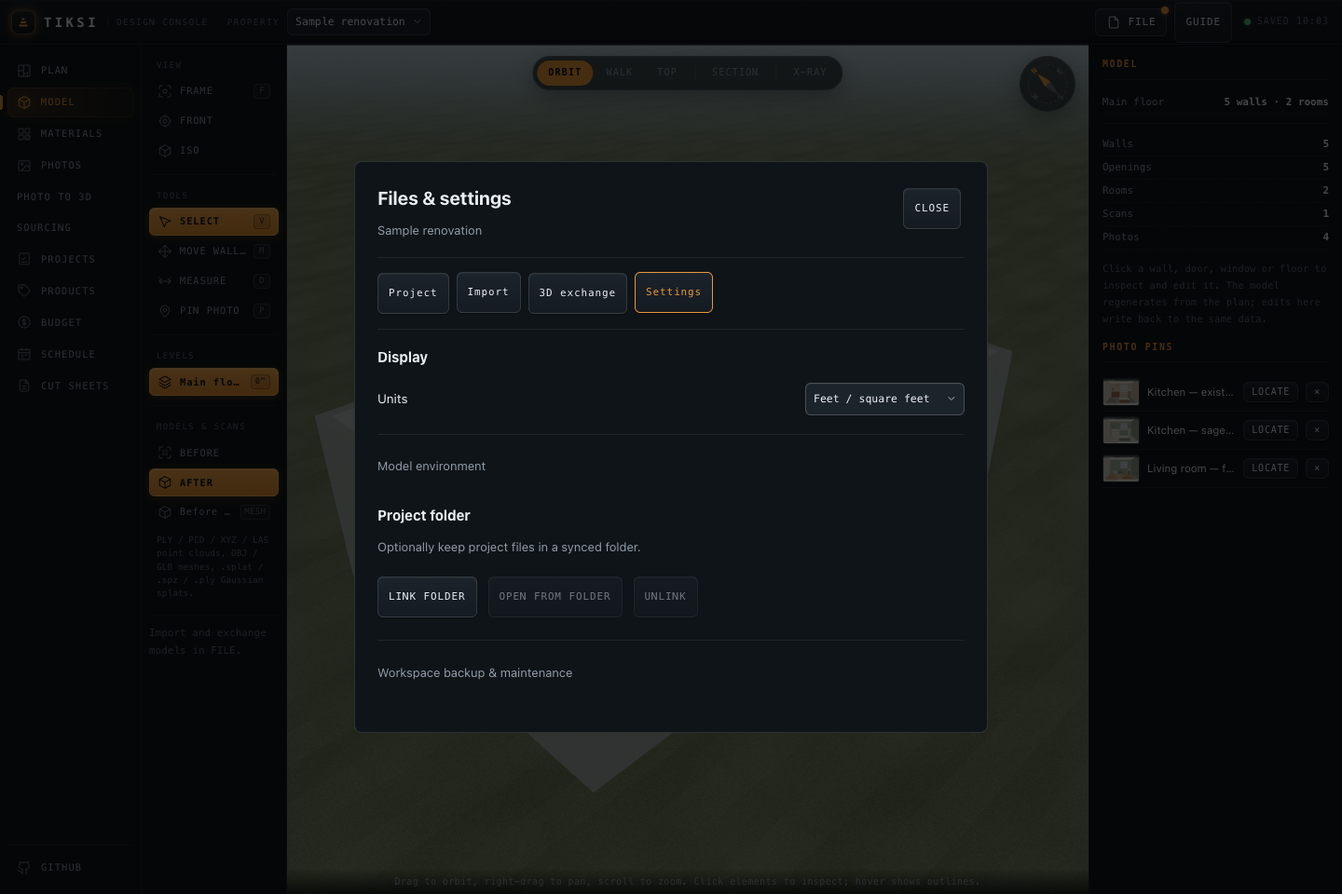
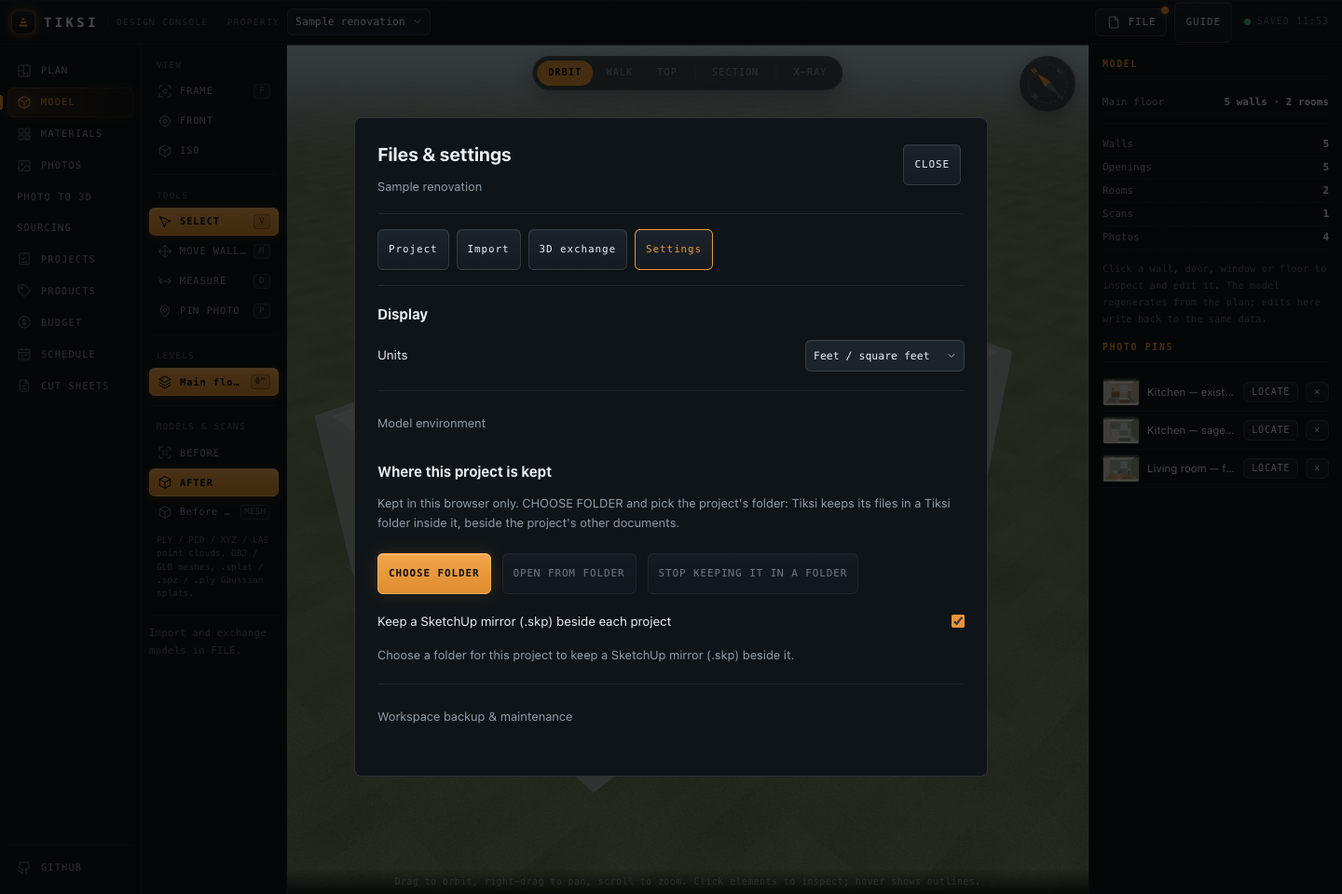
One place for where a project is kept, and say what open and link did
FILE > Settings showed two folder sections side by side, the shared project
folder and the project's own folder, and both buttons reported "Done." even
when the folder picker was cancelled. Opening a project gave no sign either,
even when the same file was opened again.

- Where this project is kept: one section with CHOOSE FOLDER, OPEN FROM FOLDER
  and STOP KEEPING IT IN A FOLDER. Picking the project's folder keeps Tiksi's
  files in a Tiksi folder inside it (made when missing), so the project's own
  documents stay beside them. A folder named Tiksi, or one that already holds
  the project's .tiksi, is used as it is. The label reads, for example,
  "Kept in 68 Chatsworth > Tiksi", and the link finds that folder again after
  a reload.
- The shared folder moves under Workspace backup & maintenance as "Projects
  without their own folder".
- Linking, reconnecting and unlinking say what happened, and a cancelled pick
  says "No folder chosen; nothing changed."
- Every open (FILE, drop, OPEN FROM FOLDER, Cmd+O) shows a toast with what was
  opened and whether it replaced this browser's copy.

diff --git a/js/main.js b/js/main.js
@@ -64,7 +64,7 @@ async function boot() {
   refreshTopbar();
   onChange(refreshTopbar);
   // Projects are files: SAVE, the FILE menu, drops, Cmd+S/Cmd+O, and the linked folder.
-  initFiles({ remount: remountView, refresh: refreshTopbar, afterReplace: afterWorkspaceReplaced });
+  initFiles({ remount: remountView, refresh: refreshTopbar, afterReplace: afterWorkspaceReplaced, opened: confirmOpened });
   bindFileIntake(importAnyFile);
   onChange(() => { scheduleFolderSync(); refreshSaveButton(); });
   onFilesChange(refreshSaveButton);
@@ -242,10 +242,9 @@ function openFileMenu(initialTab = 'project', selected) {
       <button class="btn" data-new-property>NEW PROPERTY</button></section>
     <section data-file-panel="capture" hidden><h3>Bring your room into Tiksi</h3><p>Choose photos, a scan, a 3D model or a saved project. Imported projects add or update properties here.</p><button class="btn primary" data-capture-open>CHOOSE FILES…</button><button class="btn" data-polycam>POLYCAM LINK</button><button class="btn" data-photo3d>PHOTOS → 3D</button></section>
     <section data-file-panel="exchange" hidden data-file-exchange></section>
-    <section data-file-panel="settings" hidden><h3>Display</h3><label>Units <select data-file-units><option value="imperial">Feet / square feet</option><option value="metric">Metres / square metres</option></select></label><details><summary>Model environment</summary><div data-file-env></div></details><h3>Project folder</h3><p data-folder-label></p><div class="file-actions"><button class="btn" data-folder-link>LINK FOLDER</button><button class="btn" data-folder-open>OPEN FROM FOLDER</button><button class="btn" data-folder-unlink>UNLINK</button></div>
-      <h3>This project's folder</h3><p data-own-folder-label></p><div class="file-actions"><button class="btn" data-own-folder-link>LINK THIS PROJECT'S FOLDER</button><button class="btn" data-own-folder-unlink>USE THE SHARED FOLDER</button></div>
+    <section data-file-panel="settings" hidden><h3>Display</h3><label>Units <select data-file-units><option value="imperial">Feet / square feet</option><option value="metric">Metres / square metres</option></select></label><details><summary>Model environment</summary><div data-file-env></div></details><h3>Where this project is kept</h3><p data-own-folder-label></p><div class="file-actions"><button class="btn primary" data-own-folder-link>CHOOSE FOLDER</button><button class="btn" data-folder-open>OPEN FROM FOLDER</button><button class="btn" data-own-folder-unlink>STOP KEEPING IT IN A FOLDER</button></div>
       <label>Keep a SketchUp mirror (.skp) beside each project <input type="checkbox" data-mirror-on></label><p data-mirror-label></p>
-      <details><summary>Workspace backup & maintenance</summary><p>Project saves are usually enough. A workspace backup carries every property.</p><button class="btn" data-workspace-save>SAVE WORKSPACE BACKUP</button><button class="btn" data-demo>ADD DEMO PROJECTS</button><button class="btn" data-storage>CLEAN UNUSED STORAGE</button><p>Replace workspace is available only when you intentionally want to restore a full backup.</p><button class="btn" data-workspace-replace>REPLACE FROM BACKUP…</button></details></section>
+      <details><summary>Workspace backup & maintenance</summary><h3>Projects without their own folder</h3><p data-folder-label></p><div class="file-actions"><button class="btn" data-folder-link>KEEP THEM IN ONE FOLDER</button><button class="btn" data-folder-unlink>UNLINK</button></div><p>Project saves are usually enough. A workspace backup carries every property.</p><button class="btn" data-workspace-save>SAVE WORKSPACE BACKUP</button><button class="btn" data-demo>ADD DEMO PROJECTS</button><button class="btn" data-storage>CLEAN UNUSED STORAGE</button><p>Replace workspace is available only when you intentionally want to restore a full backup.</p><button class="btn" data-workspace-replace>REPLACE FROM BACKUP…</button></details></section>
     <p role="status" data-file-status></p><input type="file" data-any-file hidden multiple accept=".tiksi,.json,${SCAN_ACCEPT},.c4d,.max,.ma,.mb,.rfa,.dwf,.mtl,.bin,.tga,.jpg,.jpeg,.png,.webp,.heic,.heif,.tif,.tiff,.avif"><input type="file" data-replace-file hidden accept=".json,.zip,.tiksi">`;
   document.body.append(dialog);dialog.showModal();dialog.addEventListener('close',()=>dialog.remove());
   const envHost=dialog.querySelector('[data-file-env]');
@@ -255,17 +254,21 @@ function openFileMenu(initialTab = 'project', selected) {
   const refresh=()=>{
     const st=filesState(),target=prop && saveTarget(prop.id);
     dialog.querySelector('[data-file-target]').textContent=target?'Saving to '+target.name:'Choose a file on first save. Cmd+S saves again; Cmd+O opens a project.';
-    dialog.querySelector('[data-folder-label]').textContent=st.folderName || 'Optionally keep project files in a synced folder.';
     const own=prop&&projectFolder(prop.id);
-    dialog.querySelector('[data-own-folder-label]').textContent=!prop?'Open a property to give it a folder of its own.':own?('Kept in '+own.name+(own.permitted?'. Only this project is written there.':', which needs permission again: LINK THIS PROJECT\'S FOLDER reconnects it.')):'Kept in the shared folder. A folder of its own keeps this project beside its other documents, for example in a Tiksi folder inside the project\'s folder.';
-    const ownLink=dialog.querySelector('[data-own-folder-link]');ownLink.disabled=!FSA_DIR||!prop;ownLink.textContent=own&&!own.permitted?'RECONNECT THIS PROJECT\'S FOLDER':'LINK THIS PROJECT\'S FOLDER';
+    dialog.querySelector('[data-own-folder-label]').textContent=!prop?'Open a property to choose where it is kept.'
+      :own?(own.permitted?'Kept in '+own.label+'. Only this project is written there.':'Kept in '+own.label+', which needs permission again: RECONNECT FOLDER asks for it.')
+      :st.folder?'Kept in '+st.folderName+' with the other projects that have no folder of their own. CHOOSE FOLDER keeps it in its own folder instead.'
+      :'Kept in this browser only. CHOOSE FOLDER and pick the project\'s folder: Tiksi keeps its files in a Tiksi folder inside it, beside the project\'s other documents.';
+    const ownLink=dialog.querySelector('[data-own-folder-link]');ownLink.disabled=!FSA_DIR||!prop;ownLink.textContent=own&&!own.permitted?'RECONNECT FOLDER':'CHOOSE FOLDER';
     dialog.querySelector('[data-own-folder-unlink]').disabled=!own;
+    dialog.querySelector('[data-folder-label]').textContent=st.folderNeedsPermission?st.folderName+' needs permission again: RECONNECT asks for it.':st.folder?'Saved as files in '+st.folderName+'.':'They are kept in this browser only. Pick one folder to keep them all there as files.';
+    const sharedLink=dialog.querySelector('[data-folder-link]');sharedLink.textContent=st.folderNeedsPermission?'RECONNECT':'KEEP THEM IN ONE FOLDER';
     dialog.querySelector('[data-folder-link]').disabled=!FSA_DIR;dialog.querySelector('[data-folder-open]').disabled=!st.folder&&!(own&&own.permitted);dialog.querySelector('[data-folder-unlink]').disabled=!st.folder && !st.folderNeedsPermission;
     dialog.querySelector('[data-mirror-on]').checked=ws.data.settings.sketchupMirror!==false;dialog.querySelector('[data-mirror-label]').textContent=prop?mirrorStatus(prop.id):'';
   };
   const stopWatching=onFilesChange(refresh);dialog.addEventListener('close',stopWatching);
   let busy=false;
-  const run=async fn=>{if(busy)return;busy=true;const disabled=Array.from(dialog.querySelectorAll('button')).filter(b=>!b.disabled);disabled.forEach(b=>b.disabled=true);dialog.oncancel=e=>e.preventDefault();try {status.textContent='Working…';await fn();status.textContent='Done.';refresh();}catch(e){status.textContent=e.message;}finally{busy=false;dialog.oncancel=null;disabled.forEach(b=>b.disabled=false);refresh();}};
+  const run=async fn=>{if(busy)return;busy=true;const disabled=Array.from(dialog.querySelectorAll('button')).filter(b=>!b.disabled);disabled.forEach(b=>b.disabled=true);dialog.oncancel=e=>e.preventDefault();try {status.textContent='Working…';const said=await fn();status.textContent=typeof said==='string'?said:'Done.';refresh();}catch(e){status.textContent=e.message;}finally{busy=false;dialog.oncancel=null;disabled.forEach(b=>b.disabled=false);refresh();}};
   let exchangeMounted=false;
   const mountExchange=()=>{if(exchangeMounted)return;exchangeMounted=true;if(currentName==='model'){const image=document.createElement('button');image.className='btn';image.textContent='SAVE VIEW IMAGE';image.dataset.saveView='';image.onclick=()=>{dialog.close();viewer3d.openStillDialog();};dialog.querySelector('[data-file-exchange]').append(image);}if(prop) openExchangeDialog(prop,{selected,host:dialog.querySelector('[data-file-exchange]'),close:()=>dialog.close(),imported:async scan=>{viewer3d.focusScanOnMount(scan.id);refreshTopbar();if(currentName==='model')remountView();else location.hash='#/model';},changed:remountView});};
   const tab=id=>{if(id==='exchange')mountExchange();dialog.querySelectorAll('[data-file-panel]').forEach(p=>p.hidden=p.dataset.filePanel!==id);dialog.querySelectorAll('[data-file-tab]').forEach(b=>{b.classList.toggle('active',b.dataset.fileTab===id);b.setAttribute('aria-current',b.dataset.fileTab===id?'true':'false');});};
@@ -286,10 +289,18 @@ function openFileMenu(initialTab = 'project', selected) {
   on('[data-photo3d]',()=>{dialog.close();location.hash='#/reconstruct';});
   dialog.querySelector('[data-file-units]').value=ws.data.settings.units;
   dialog.querySelector('[data-file-units]').onchange=e=>{ws.data.settings.units=e.target.value;touch();remountView();};
-  on('[data-folder-link]',()=>run(()=>filesState().folderNeedsPermission?reconnectFolder(true):linkFolder()));
+  on('[data-folder-link]',()=>run(async()=>{
+    if(filesState().folderNeedsPermission)return await reconnectFolder(true)?'Reconnected '+filesState().folderName+'.':'Permission was not given; nothing changed.';
+    const dir=await linkFolder();return dir?'Projects without their own folder are now saved in '+dir.name+'.':'No folder chosen; nothing changed.';}));
   dialog.querySelector('[data-mirror-on]').onchange=e=>{ws.data.settings.sketchupMirror=e.target.checked;touch();scheduleFolderSync(0);refresh();};
-  on('[data-folder-open]',()=>openFolderList(dialog.querySelector('[data-folder-open]')));on('[data-folder-unlink]',()=>{unlinkFolder();refresh();});
-  on('[data-own-folder-link]',()=>run(async()=>{await linkProjectFolder(prop);refreshTopbar();remountView();}));on('[data-own-folder-unlink]',()=>run(()=>unlinkProjectFolder(prop.id)));
+  on('[data-folder-open]',()=>openFolderList(dialog.querySelector('[data-folder-open]')));
+  on('[data-folder-unlink]',()=>run(async()=>{await unlinkFolder();return 'Unlinked. Projects without their own folder are kept in this browser only.';}));
+  on('[data-own-folder-link]',()=>run(async()=>{
+    const dir=await linkProjectFolder(prop);if(!dir)return 'No folder chosen; nothing changed.';
+    refreshTopbar();remountView();const own=projectFolder(prop.id);
+    return own&&own.permitted?'Kept in '+own.label+'.':'Permission was not given; nothing changed.';}));
+  on('[data-own-folder-unlink]',()=>run(async()=>{await unlinkProjectFolder(prop.id);const st=filesState();
+    return st.folder?'Back with the other projects in '+st.folderName+'. The files in its folder stay where they are.':'Kept in this browser only now. The files in its folder stay where they are.';}));
   on('[data-workspace-save]',()=>run(runExportBundle));on('[data-storage]',()=>run(()=>offerStorageCleanup(false)));
   on('[data-demo]',()=>{mergeWorkspace(demoWorkspace());ensureBuiltinMaterials();refreshTopbar();remountView();dialog.close();});
   const replace=dialog.querySelector('[data-replace-file]');on('[data-workspace-replace]',()=>replace.click());
@@ -297,6 +308,25 @@ function openFileMenu(initialTab = 'project', selected) {
     if(!confirm('Replace the workspace with '+file.name+'? This is the explicit backup-restore action.'))return;
     if(/\.json$/i.test(file.name))replaceWorkspace(JSON.parse(await file.text()));else if(!await importBundle(file,{confirm:false}))return;
     afterWorkspaceReplaced();refreshTopbar();dialog.close();});
+}
+
+// One-line confirmation at the bottom of the window (styles: .toast in console.css). Inside an
+// open dialog so a modal does not cover it.
+function showToast(text, kind) {
+  document.querySelectorAll('.toast').forEach(t => t.remove());
+  const el = document.createElement('div');
+  el.className = 'toast ' + (kind || 'ok'); el.setAttribute('role', 'status'); el.textContent = text;
+  (document.querySelector('dialog[open]') || document.body).append(el);
+  setTimeout(() => { el.classList.add('leaving'); setTimeout(() => el.remove(), 200); }, 6000);
+}
+
+// Opening a project always says what it opened, also when that file was already open here.
+function confirmOpened({ ids, name, replaced }) {
+  const props = ids.map(id => ws.data.properties.find(p => p.id === id)).filter(Boolean);
+  if (!props.length) { showToast('Opened ' + name + ', but it holds no properties.', 'error'); return; }
+  if (props.length > 1) { showToast('Opened ' + name + ': ' + props.length + ' properties' + (replaced.length ? ', ' + replaced.length + ' of them replacing this browser\'s copy' : '') + '.'); return; }
+  const p = props[0], count = (n, one) => n + ' ' + one + (n === 1 ? '' : 's');
+  showToast('Opened ' + p.name + (replaced.includes(p.id) ? ', replacing this browser\'s copy' : '') + ': ' + count((p.scans || []).length, 'model') + ', ' + count((p.photos || []).length, 'photo') + ', ' + count((p.walls || []).length, 'wall') + '.');
 }
 
 async function openFolderList(anchor) {

diff --git a/js/files.js b/js/files.js
@@ -7,8 +7,9 @@
 //   PROJECT FOLDER   Pick a folder once (an iCloud Drive, Dropbox or OneDrive folder syncs it
 //                    across machines) and every property is kept there as <name>.tiksi,
 //                    rewritten a few seconds after each change. OPEN lists what the folder holds.
-//                    A property can instead have a folder of its own, such as <project>/Tiksi/
-//                    beside the project's other documents; only that property is written there.
+//                    A property can instead have a folder of its own: pick the project's folder
+//                    and Tiksi keeps its files in a Tiksi folder inside it, beside the project's
+//                    other documents. Only that property is written there.
 //   OPEN             A picker, a drop on the window, a folder entry, or #/open?url=<file> for a
 //                    project hosted anywhere that allows cross-origin reads.
 //
@@ -29,7 +30,7 @@ const OPEN_PICKER_TYPES = [{ description: 'tiksi project or workspace', accept: 
 const FOLDER_MAP_KEY = 'tiksi.folder.v1';
 const SYNC_DELAY_MS = 4000;
 
-let app = { remount() {}, refresh() {}, afterReplace() {} };
+let app = { remount() {}, refresh() {}, afterReplace() {}, opened() {} };
 export function initFiles(hooks) { app = Object.assign(app, hooks || {}); }
 
 // ---------- state ----------
@@ -75,7 +76,7 @@ export function isDirty(propId) {
 export function saveTarget(propId) {
   if (state.fileHandles.has(propId)) return { kind: 'file', name: state.fileHandles.get(propId).name };
   const folder = folderOf(propId), entry = state.folderMap[propId];
-  if (folder && entry && entry.file) return { kind: 'folder', name: entry.file, folder: folder.name };
+  if (folder && entry && entry.file) return { kind: 'folder', name: entry.file, folder: folderLabel(propId) || folder.name };
   return null;
 }
 
@@ -196,12 +197,14 @@ export async function openFromFile(file) {
     parsed = { data, manifest: null };
   } else parsed = await readBundle(file);
   const { data, manifest } = parsed;
+  const before = new Set(ws.data.properties.map(p => p.id));
   // Opening always adds/updates imported properties. Replacement is a separate explicit action.
   const ids = /\.json$/i.test(file.name) ? mergeWorkspace(data, { fromFile: true }) : await importProject(file);
   for (const id of ids) state.savedSig.set(id, signatureOf(id));
   app.refresh(); app.remount();
   setSaveStatus('OPENED ' + file.name.toUpperCase(), false);
   notify();
+  try { app.opened({ ids, name: file.name, replaced: ids.filter(id => before.has(id)) }); } catch (e) { console.error(e); }
   return ids;
 }
 
@@ -315,43 +318,66 @@ async function reconnectProjectFolders(interactive, only) {
   let any = false;
   for (const [id, entry] of Object.entries(state.folderMap)) {
     if (!entry || !entry.own || (only && id !== only)) continue;
-    let handle = state.projectFolders.get(id)?.handle || null;
-    if (!handle) { try { handle = (await getFile(handleKey('folder:' + id)))?.handle || null; } catch (e) { /* no store */ } }
+    const known = state.projectFolders.get(id);
+    let root = (known && (known.root || known.handle)) || null;
+    if (!root) { try { root = (await getFile(handleKey('folder:' + id)))?.handle || null; } catch (e) { /* no store */ } }
     // Without its handle the property stays unwritten until its folder is linked again.
-    const permitted = !!handle && await ensurePermission(handle, !!interactive);
-    state.projectFolders.set(id, { handle, name: handle ? handle.name : (entry.folderName || ''), permitted });
-    any = any || permitted;
+    const permitted = !!root && await ensurePermission(root, !!interactive);
+    let handle = root;
+    if (permitted && entry.sub) { try { handle = await root.getDirectoryHandle(entry.sub, { create: true }); } catch (e) { handle = null; } }
+    state.projectFolders.set(id, { handle, root, name: entry.folderName || (handle ? handle.name : ''), parentName: entry.parentName, permitted: permitted && !!handle });
+    any = any || (permitted && !!handle);
   }
   return any;
 }
 
 // ---------- a project's own folder ----------
-// { name, permitted } when the property is kept in a folder of its own, otherwise null.
+// { name, parentName, label, permitted } when the property is kept in a folder of its own, otherwise null.
 export function projectFolder(propId) {
   const own = state.projectFolders.get(propId);
-  return own ? { name: own.name, permitted: own.permitted } : null;
+  return own ? { name: own.name, parentName: own.parentName || null, label: folderLabel(propId), permitted: own.permitted } : null;
 }
 
-// Keep one property in a folder of its own, for example <project>/Tiksi/ beside the project's
-// other documents. When that folder already holds the property's project file (a project moved
-// there), `choose` decides whether to open it ('open') or keep this browser's copy ('keep');
-// keeping writes the browser copy beside it under a new name, so no file is overwritten.
+// "68 Chatsworth › Tiksi" when Tiksi made its folder inside the one picked, else the folder's name.
+export function folderLabel(propId) {
+  const own = state.projectFolders.get(propId);
+  if (!own) return '';
+  return own.parentName ? own.parentName + ' \u203a ' + own.name : own.name;
+}
+
+// The folder Tiksi keeps a project in, given the folder that was picked: the picked folder itself
+// when it is a Tiksi folder or already holds this project's file, otherwise a Tiksi folder inside
+// it (made when missing), so the project's own documents stay beside Tiksi's files.
+async function tiksiFolderIn(dir, prop) {
+  if (/^tiksi$/i.test(dir.name)) return { folder: dir, sub: null };
+  try { await dir.getFileHandle(projectFileName(prop)); return { folder: dir, sub: null }; }
+  catch (e) { if (e.name !== 'NotFoundError' && e.name !== 'TypeMismatchError') throw e; }
+  return { folder: await dir.getDirectoryHandle('Tiksi', { create: true }), sub: 'Tiksi' };
+}
+
+// Keep one property in a folder of its own. Pick the project's folder and Tiksi uses a Tiksi
+// folder inside it (see tiksiFolderIn). Returns null when no folder was chosen. When the folder
+// already holds the property's project file (a project moved there), `choose` decides whether to
+// open it ('open') or keep this browser's copy ('keep'); keeping writes the browser copy beside it
+// under a new name, so no file is overwritten.
 export async function linkProjectFolder(prop, opts) {
   opts = opts || {};
   if (!FSA_DIR) throw new Error('This browser cannot keep a project folder (Chrome and Edge can). Use SAVE to write project files instead.');
   if (!prop) throw new Error('Open a property first.');
   const own = state.projectFolders.get(prop.id);
-  if (own && own.handle && !own.permitted && !opts.pick) {
-    if (await reconnectProjectFolders(true, prop.id)) { notify(); scheduleFolderSync(0); return own.handle; }
+  if (own && (own.root || own.handle) && !own.permitted && !opts.pick) {
+    if (await reconnectProjectFolders(true, prop.id)) { notify(); scheduleFolderSync(0); return state.projectFolders.get(prop.id).handle; }
   }
-  let dir;
-  try { dir = await window.showDirectoryPicker({ mode: 'readwrite', id: 'tiksi-project-folder' }); }
+  let picked;
+  try { picked = await window.showDirectoryPicker({ mode: 'readwrite', id: 'tiksi-project-folder' }); }
   catch (e) { if (e && e.name === 'AbortError') return null; throw e; }
+  const { folder: dir, sub } = await tiksiFolderIn(picked, prop);
   const previous = state.folderMap[prop.id];
-  state.projectFolders.set(prop.id, { handle: dir, name: dir.name, permitted: true });
-  state.folderMap[prop.id] = { own: true, folderName: dir.name, shared: previous && !previous.own ? previous : (previous && previous.shared) || undefined };
+  const parentName = sub ? picked.name : undefined;
+  state.projectFolders.set(prop.id, { handle: dir, root: picked, name: dir.name, parentName, permitted: true });
+  state.folderMap[prop.id] = { own: true, folderName: dir.name, parentName, sub: sub || undefined, shared: previous && !previous.own ? previous : (previous && previous.shared) || undefined };
   state.conflicts.delete(prop.id);
-  try { await putFile(handleKey('folder:' + prop.id), null, { kind: 'handle', handle: dir }); } catch (e) { /* session only */ }
+  try { await putFile(handleKey('folder:' + prop.id), null, { kind: 'handle', handle: picked }); } catch (e) { /* session only */ }
   const existing = (await listFolder(dir)).find(en => en.name === projectFileName(prop));
   if (existing) {
     const choose = opts.choose || (en => (window.confirm(dir.name + ' already holds ' + en.name + ' (saved ' + new Date(en.lastModified).toLocaleString() + '). Open it?\n\nOK opens that file and replaces this browser\'s copy of ' + prop.name + '. Cancel keeps this browser\'s copy and saves it beside the file under a new name.') ? 'open' : 'keep'));
@@ -402,8 +428,11 @@ export async function openFromFolder(entry, folder) {
     const id = ids[0], record = { file: entry.name, sig: signatureOf(id), mtime: file.lastModified };
     const before = state.folderMap[id];
     if (folder !== state.folder) {
-      // Opened from a project's own folder: the property is kept there from now on.
-      state.folderMap[id] = Object.assign(record, { own: true, folderName: folder.name, shared: before && !before.own ? before : before && before.shared });
+      // Opened from a project's own folder: the property is kept there from now on. When that is
+      // the folder it is already linked to, keep how it was reached (a Tiksi folder inside the pick).
+      const same = state.projectFolders.get(id)?.handle === folder && before && before.own;
+      state.folderMap[id] = Object.assign(record, { own: true, folderName: folder.name, parentName: same ? before.parentName : undefined, sub: same ? before.sub : undefined,
+        shared: before && !before.own ? before : before && before.shared });
       if (state.projectFolders.get(id)?.handle !== folder) {
         state.projectFolders.set(id, { handle: folder, name: folder.name, permitted: true });
         try { await putFile(handleKey('folder:' + id), null, { kind: 'handle', handle: folder }); } catch (e) { /* session only */ }
@@ -433,7 +462,7 @@ export async function syncFolder() {
   try {
     if (state.folder && !(await ensurePermission(state.folder, false))) { state.folder = null; state.folderNeedsPermission = true; notify(); }
     for (const own of state.projectFolders.values()) {
-      if (own.permitted && !(await ensurePermission(own.handle, false))) { own.permitted = false; notify(); }
+      if (own.permitted && !(await ensurePermission(own.root || own.handle, false))) { own.permitted = false; notify(); }
     }
     if (!anyFolder()) return;
     const mirrorOn = await mirrorEnabled();
@@ -524,8 +553,8 @@ function startMirrorPoll() {
 export function mirrorStatus(propId) {
   if (ws.data.settings.sketchupMirror === false) return 'SketchUp mirror is off.';
   const own = state.projectFolders.get(propId);
-  if (own && !own.permitted) return 'SketchUp mirror waits for this project\'s folder (' + own.name + ') to be reconnected.';
-  if (!folderOf(propId)) return 'Link a project folder to keep a SketchUp mirror (.skp) beside each project.';
+  if (own && !own.permitted) return 'SketchUp mirror waits for this project\'s folder (' + folderLabel(propId) + ') to be reconnected.';
+  if (!folderOf(propId)) return 'Choose a folder for this project to keep a SketchUp mirror (.skp) beside it.';
   if (state.mirror.available === false) return 'SketchUp mirror needs the local Tiksi server on a Mac with SketchUp installed.';
   if (state.mirror.errors.has(propId)) return 'SketchUp mirror: ' + state.mirror.errors.get(propId);
   const ms = state.folderMap[propId] && state.folderMap[propId].mirror;

diff --git a/js/guide-content.js b/js/guide-content.js
@@ -41,8 +41,7 @@ export const chapters = [
       'Use SAVE AS when you want another file destination. Later SAVE PROJECT actions update the remembered file in browsers that support it, or download a file in other browsers.',
       'To reopen work, choose OPEN / IMPORT and select its .tiksi file, or drop the file on Tiksi.',
       'Opening updates the property with the same ID and leaves unrelated properties in place. Choose the property at the top of the app to switch between them.',
-      'To keep a whole project folder, use FILE → Settings → LINK FOLDER. Use OPEN FROM FOLDER to inspect and reopen its project files.',
-      'To keep one project beside its other documents, open it and use FILE → Settings → LINK THIS PROJECT\'S FOLDER, for example on a Tiksi folder inside the project\'s own folder. Only that project is written there; USE THE SHARED FOLDER moves it back.',
+      'To keep a project as files beside its other documents, open it and use FILE → Settings → Where this project is kept → CHOOSE FOLDER, then pick the project\'s folder. Tiksi keeps its files in a Tiksi folder inside it. Use OPEN FROM FOLDER to reopen a project file kept there.',
     ],
     features: [
       ['Keyboard saving', 'Cmd/Ctrl+S saves; Cmd/Ctrl+Shift+S saves a new copy; Cmd/Ctrl+O opens a project file.'],
@@ -332,8 +331,8 @@ export const chapters = [
     steps: [
       'Open FILE → Settings to choose feet/square feet or metres/square metres.',
       'For rendering, open MODEL first, then FILE → Settings → Model environment. Adjust quality, lighting and the offered view settings.',
-      'Use LINK FOLDER for file-based project keeping, OPEN FROM FOLDER to reopen a project and UNLINK to stop using the folder.',
-      'Use LINK THIS PROJECT\'S FOLDER to keep the open project in a folder of its own. If that folder already holds the project\'s file, Tiksi offers to open it instead of writing over it.',
+      'Under Where this project is kept, CHOOSE FOLDER keeps the open project in its own folder, OPEN FROM FOLDER reopens a project file and STOP KEEPING IT IN A FOLDER leaves the files where they are. If the folder already holds the project\'s file, Tiksi offers to open it instead of writing over it.',
+      'Under Workspace backup & maintenance, KEEP THEM IN ONE FOLDER keeps every project without a folder of its own in one folder, for example a synced one.',
       'Open Workspace backup & maintenance when you want a whole-workspace backup or need to inspect unused browser storage.',
     ],
     features: [

diff --git a/README.md b/README.md
@@ -246,17 +246,19 @@ start to the file's date. Three ways to keep it, none of which needs a server:
   save writes there silently, and the file is remembered across visits. Other
   browsers download the file. SAVE AS… (Cmd+Shift+S) picks a new file. The FILE
   button carries a dot while the browser copy is ahead of the file.
-- **A project folder.** FILE → Settings → LINK FOLDER picks a folder once; from
-  then on every property is kept there as its own `.tiksi`, rewritten a few
-  seconds after each change. Put the folder in iCloud Drive, Dropbox or OneDrive
-  and your projects follow you to the next machine, where OPEN FROM FOLDER lists
-  them. If the folder holds a newer copy than this browser (you edited elsewhere),
-  FILE warns and OPEN FROM FOLDER pulls it in rather than overwriting it.
-- **A project's own folder.** FILE → Settings → LINK THIS PROJECT'S FOLDER keeps the open
-  property in a folder of its own, for example `<project>/Tiksi/` beside the project's other
-  documents, instead of the shared folder. Only that property (and its `.skp` mirror) is
-  written there. If the folder already holds the property's `.tiksi`, Tiksi offers to open it;
-  keeping the browser copy saves it under a new name instead of writing over the file.
+- **Where a project is kept.** FILE → Settings → Where this project is kept → CHOOSE FOLDER.
+  Pick the project's own folder (where its other documents live) and Tiksi keeps its files in
+  a `Tiksi` folder inside it, made when missing: the `.tiksi`, rewritten a few seconds after
+  each change, and its `.skp` mirror. Picking a folder named `Tiksi`, or one that already holds
+  the project's `.tiksi`, uses that folder as it is. Only that project is written there. If the
+  folder already holds the project's `.tiksi`, Tiksi offers to open it; keeping the browser copy
+  saves it under a new name instead of writing over the file. STOP KEEPING IT IN A FOLDER leaves
+  the files where they are. If the folder holds a newer copy than this browser (you edited
+  elsewhere), FILE warns and OPEN FROM FOLDER pulls it in rather than overwriting it.
+- **Projects without their own folder.** FILE → Settings → Workspace backup & maintenance →
+  KEEP THEM IN ONE FOLDER keeps every other property in one folder as its own `.tiksi`. Put that
+  folder in iCloud Drive, Dropbox or OneDrive and those projects follow you to the next machine,
+  where OPEN FROM FOLDER lists them.
 - **A SketchUp mirror.** With a project folder linked and the local server running on a
   Mac with SketchUp installed, every `<name>.tiksi` in the folder gets a `<name>.skp` beside
   it. Walls (with their openings cut), openings, room floors, level tags and plan underlays

diff --git a/USER-GUIDE.md b/USER-GUIDE.md
@@ -82,8 +82,7 @@ FILE → Project is the home for SAVE PROJECT, SAVE AS, OPEN / IMPORT and NEW PR
 2. Use SAVE AS when you want another file destination. Later SAVE PROJECT actions update the remembered file in browsers that support it, or download a file in other browsers.
 3. To reopen work, choose OPEN / IMPORT and select its .tiksi file, or drop the file on Tiksi.
 4. Opening updates the property with the same ID and leaves unrelated properties in place. Choose the property at the top of the app to switch between them.
-5. To keep a whole project folder, use FILE → Settings → LINK FOLDER. Use OPEN FROM FOLDER to inspect and reopen its project files.
-6. To keep one project beside its other documents, open it and use FILE → Settings → LINK THIS PROJECT'S FOLDER, for example on a Tiksi folder inside the project's own folder. Only that project is written there; USE THE SHARED FOLDER moves it back.
+5. To keep a project as files beside its other documents, open it and use FILE → Settings → Where this project is kept → CHOOSE FOLDER, then pick the project's folder. Tiksi keeps its files in a Tiksi folder inside it. Use OPEN FROM FOLDER to reopen a project file kept there.
 
 <details><summary>Find saving, importing and settings in one place</summary>
 
@@ -576,8 +575,8 @@ Settings groups display, model environment, project-folder controls and the sepa
 
 1. Open FILE → Settings to choose feet/square feet or metres/square metres.
 2. For rendering, open MODEL first, then FILE → Settings → Model environment. Adjust quality, lighting and the offered view settings.
-3. Use LINK FOLDER for file-based project keeping, OPEN FROM FOLDER to reopen a project and UNLINK to stop using the folder.
-4. Use LINK THIS PROJECT'S FOLDER to keep the open project in a folder of its own. If that folder already holds the project's file, Tiksi offers to open it instead of writing over it.
+3. Under Where this project is kept, CHOOSE FOLDER keeps the open project in its own folder, OPEN FROM FOLDER reopens a project file and STOP KEEPING IT IN A FOLDER leaves the files where they are. If the folder already holds the project's file, Tiksi offers to open it instead of writing over it.
+4. Under Workspace backup & maintenance, KEEP THEM IN ONE FOLDER keeps every project without a folder of its own in one folder, for example a synced one.
 5. Open Workspace backup & maintenance when you want a whole-workspace backup or need to inspect unused browser storage.
 
 ### Other features here
